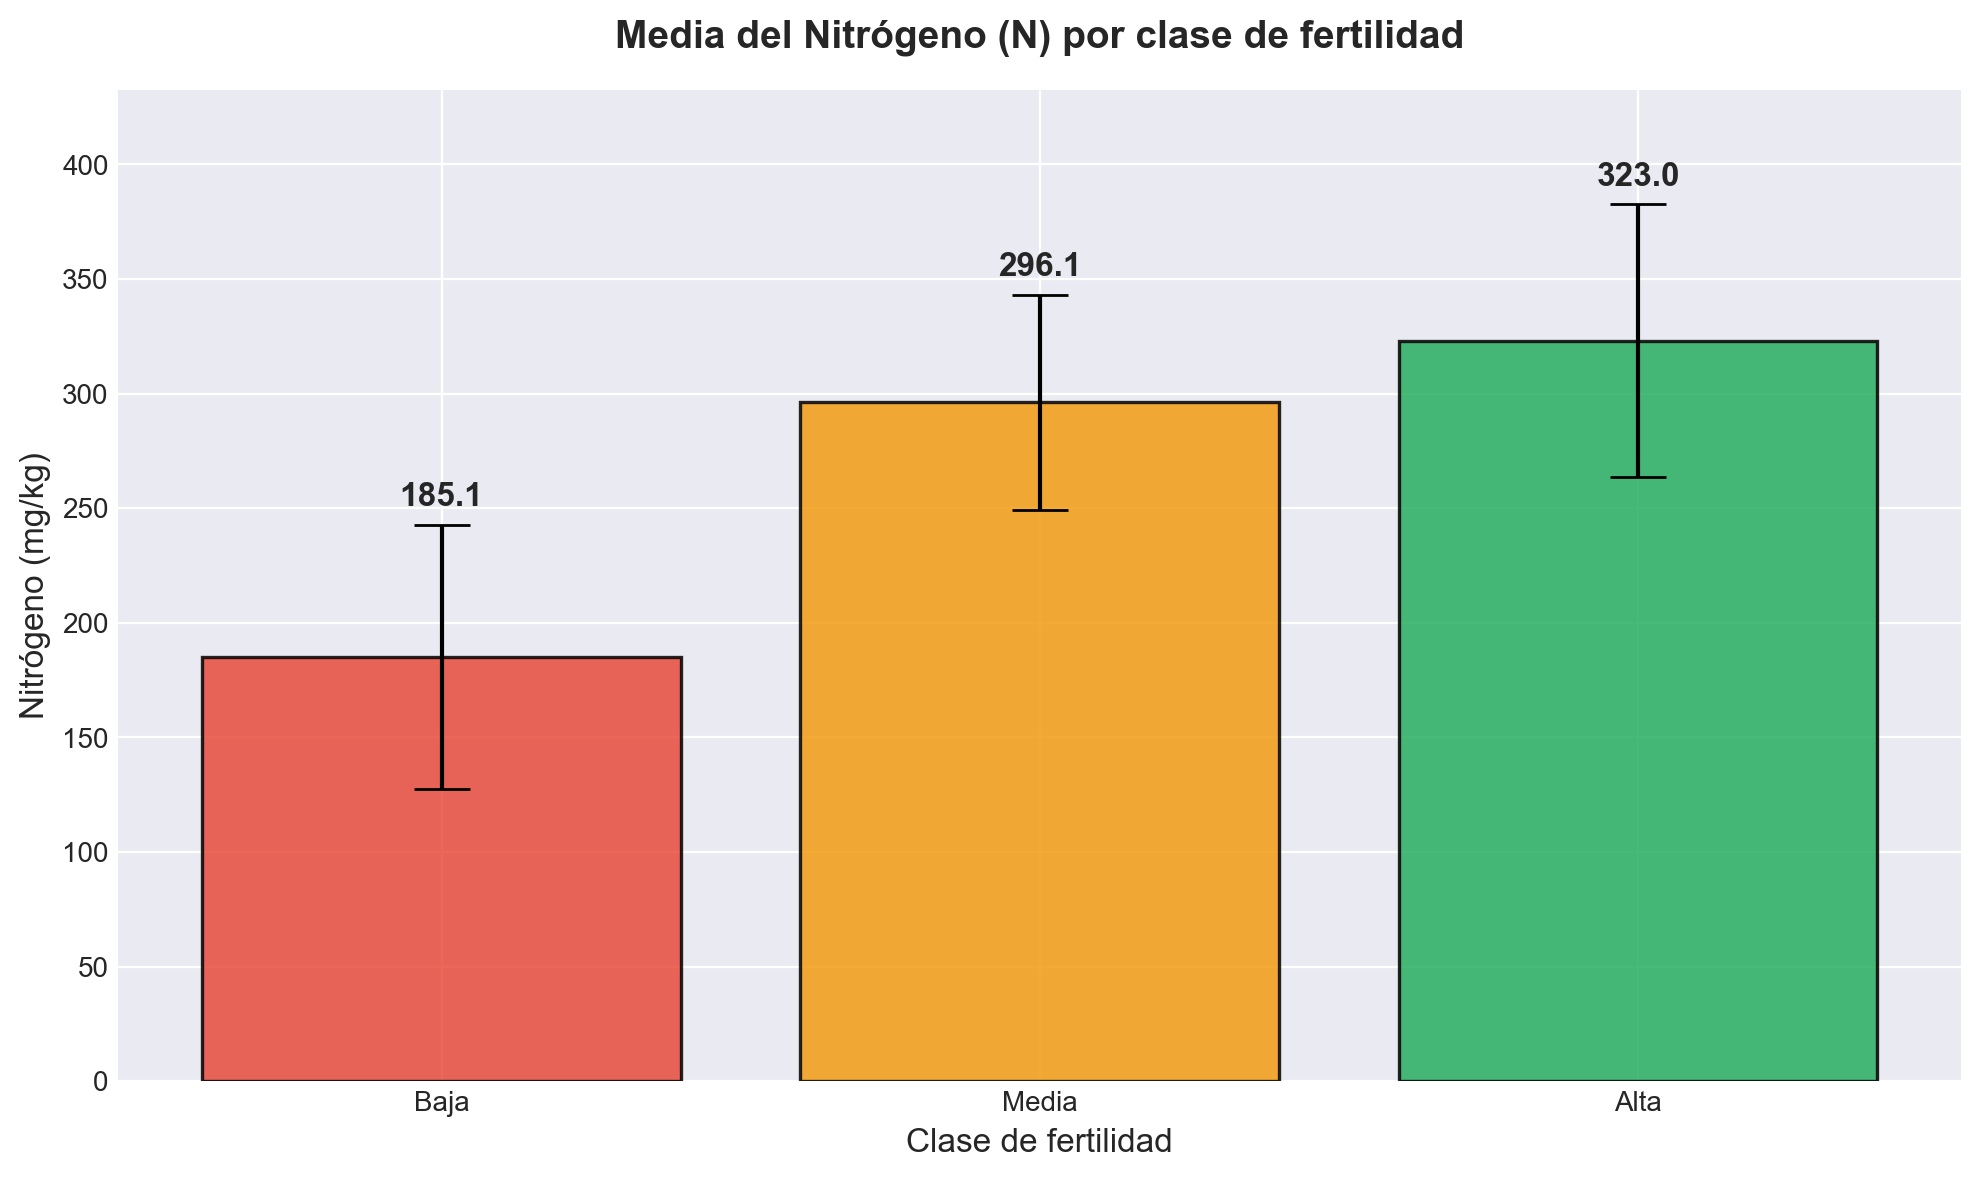
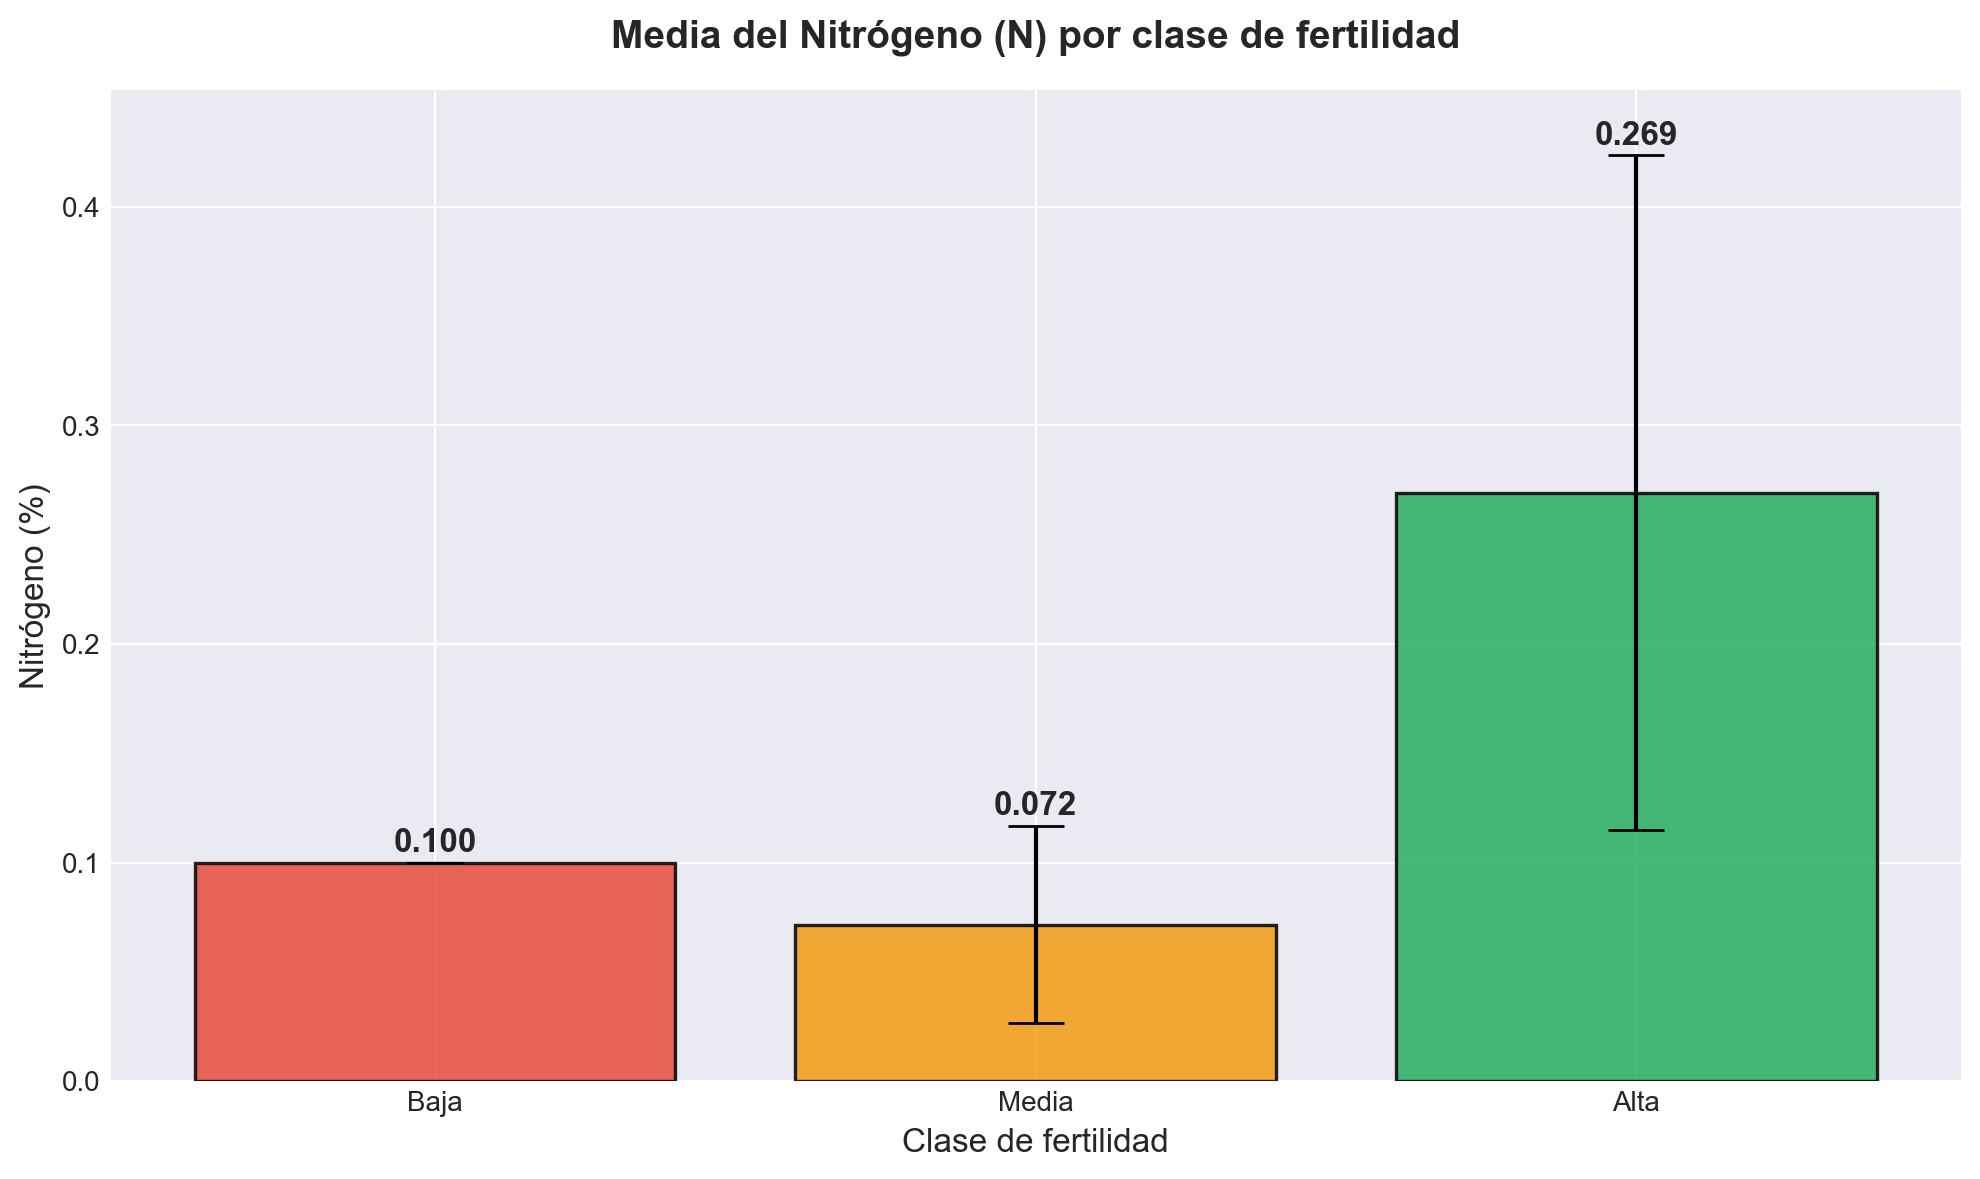
fix: regenerar las 8 gráficas y captions con dataset SAGARPA-FAO actual
Debilidad #2 detectada en el FODA: gráficas e imágenes del modelo anterior.

Gráficas regeneradas con dataset oficial (3,826 muestras):
- 01: Distribución de clases (Baja 42.6%, Media 36.0%, Alta 21.4%)
- 02: Correlación con N destacando con r = 0.503 (16 variables ahora)
- 03: Medias del N por clase (escala porcentaje)
- 04: Boxplot del N + prueba t actualizada (t=-31.34, p<0.001)
- 05: Recta de regresión por Cramer (a=3.6054, b=0.3337)
- 06: Cálculo diferencial (modelo teórico sin cambios)
- 07: Matriz de confusión del modelo actual (exactitud 60.31%)
- 08: Intervalo de confianza al 95% [56.8%, 63.7%]
- 00: Hoja combinada con las 8 gráficas actualizadas

Captions actualizados con los valores correctos del modelo actual.
Eliminado el disclaimer amarillo (ya no aplica).

diff --git a/index.html b/index.html
@@ -147,52 +147,45 @@
     <section id="visualizaciones" class="section">
         <h2>Visualizaciones del análisis</h2>
         <p>
-            Las siguientes gráficas corresponden al <strong>análisis original del proyecto
-            académico</strong> realizado con el dataset preliminar de 880 muestras. Documentan
-            los principales hallazgos: distribuciones, correlaciones, validación estadística
-            mediante prueba t e intervalo de confianza, así como los modelos matemáticos
-            aplicados (regresión por regla de Cramer y optimización por cálculo diferencial).
-            Se incluyen como referencia histórica del proceso de construcción del modelo.
-        </p>
-        <p style="background:#fffbe6;border-left:4px solid #f1c40f;padding:12px 16px;border-radius:6px;font-size:0.93em;">
-            <strong>Nota:</strong> el modelo actual del simulador interactivo utiliza el
-            dataset oficial SAGARPA-FAO 2012 con 3,826 muestras y 16 variables fisicoquímicas,
-            distinto al de estas gráficas. Las métricas en vivo (estadísticas, distribución,
-            correlaciones) sí provienen del dataset actual.
+            Las siguientes gráficas resumen los principales hallazgos del análisis realizado
+            sobre el dataset oficial SAGARPA-FAO 2012 (3,826 muestras): distribución de los
+            datos, correlaciones, validación estadística mediante prueba t e intervalo de
+            confianza al 95 %, así como los modelos matemáticos aplicados (regresión por
+            regla de Cramer y optimización por cálculo diferencial).
         </p>
 
         <div class="gallery">
             <figure>
                 <img src="img/01_distribucion_clases.png" alt="Distribución de clases" loading="lazy">
-                <figcaption><strong>Figura 1.</strong> Distribución de las muestras del dataset por nivel de fertilidad (basada en muestras del modelo anterior, referencia histórica).</figcaption>
+                <figcaption><strong>Figura 1.</strong> Distribución de las 3,826 muestras del dataset SAGARPA-FAO 2012 por nivel de fertilidad (Baja 42.6 %, Media 36.0 %, Alta 21.4 %).</figcaption>
             </figure>
             <figure>
                 <img src="img/02_correlacion_variables.png" alt="Correlación de variables" loading="lazy">
-                <figcaption><strong>Figura 2.</strong> Coeficientes de correlación con la fertilidad.</figcaption>
+                <figcaption><strong>Figura 2.</strong> Coeficientes de correlación de Pearson de cada variable fisicoquímica con la clase de fertilidad. El nitrógeno destaca con r = 0.503.</figcaption>
             </figure>
             <figure>
                 <img src="img/03_medias_nitrogeno_por_clase.png" alt="Medias del nitrógeno por clase" loading="lazy">
-                <figcaption><strong>Figura 3.</strong> Media del nitrógeno por clase con barras de error.</figcaption>
+                <figcaption><strong>Figura 3.</strong> Media del nitrógeno por clase de fertilidad con barras de error (desviación estándar). Se observa diferenciación marcada entre clases.</figcaption>
             </figure>
             <figure>
                 <img src="img/04_boxplot_nitrogeno.png" alt="Boxplot del nitrógeno" loading="lazy">
-                <figcaption><strong>Figura 4.</strong> Distribución del nitrógeno por clase + prueba t.</figcaption>
+                <figcaption><strong>Figura 4.</strong> Distribución del nitrógeno por clase. La prueba t de Welch (Baja vs Alta) arroja t = −31.34 con p &lt; 0.001, rechazando la hipótesis nula de medias iguales.</figcaption>
             </figure>
             <figure>
                 <img src="img/05_regresion_cramer.png" alt="Regresión por Cramer" loading="lazy">
-                <figcaption><strong>Figura 5.</strong> Recta de regresión por la regla de Cramer.</figcaption>
+                <figcaption><strong>Figura 5.</strong> Recta de regresión obtenida por la regla de Cramer (y = 3.6054·N + 0.3337) ajustada sobre las 3,826 muestras.</figcaption>
             </figure>
             <figure>
                 <img src="img/06_calculo_diferencial.png" alt="Cálculo diferencial" loading="lazy">
-                <figcaption><strong>Figura 6.</strong> Función de rendimiento y dosis óptima (N* = 100 kg/ha).</figcaption>
+                <figcaption><strong>Figura 6.</strong> Modelo teórico de rendimiento f(N) = −0.05·N² + 10·N y su punto óptimo en N* = 100 kg/ha, encontrado por derivación.</figcaption>
             </figure>
             <figure>
                 <img src="img/07_matriz_confusion.png" alt="Matriz de confusión" loading="lazy">
-                <figcaption><strong>Figura 7.</strong> Matriz de confusión del modelo KNN.</figcaption>
+                <figcaption><strong>Figura 7.</strong> Matriz de confusión del modelo KNN (k = 5) sobre el conjunto de prueba de 766 muestras. Exactitud global: 60.31 %.</figcaption>
             </figure>
             <figure>
                 <img src="img/08_intervalo_confianza.png" alt="Intervalo de confianza" loading="lazy">
-                <figcaption><strong>Figura 8.</strong> Intervalo de confianza al 95 % para la exactitud.</figcaption>
+                <figcaption><strong>Figura 8.</strong> Intervalo de confianza al 95 % (método de Wilson) para la exactitud: [56.8 %, 63.7 %], muy por encima del azar (33.3 %).</figcaption>
             </figure>
         </div>
     </section>
